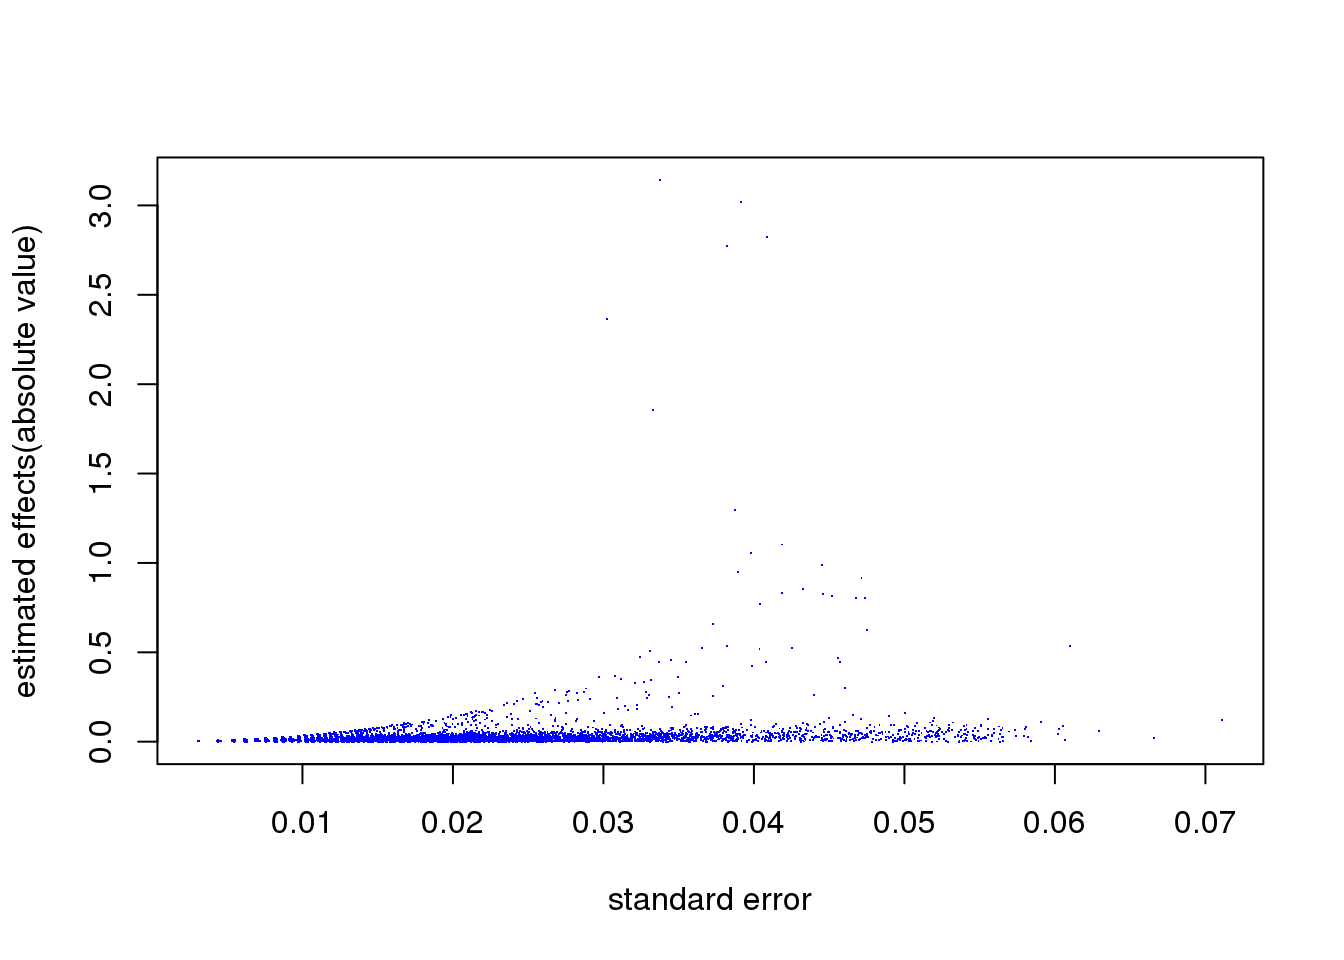
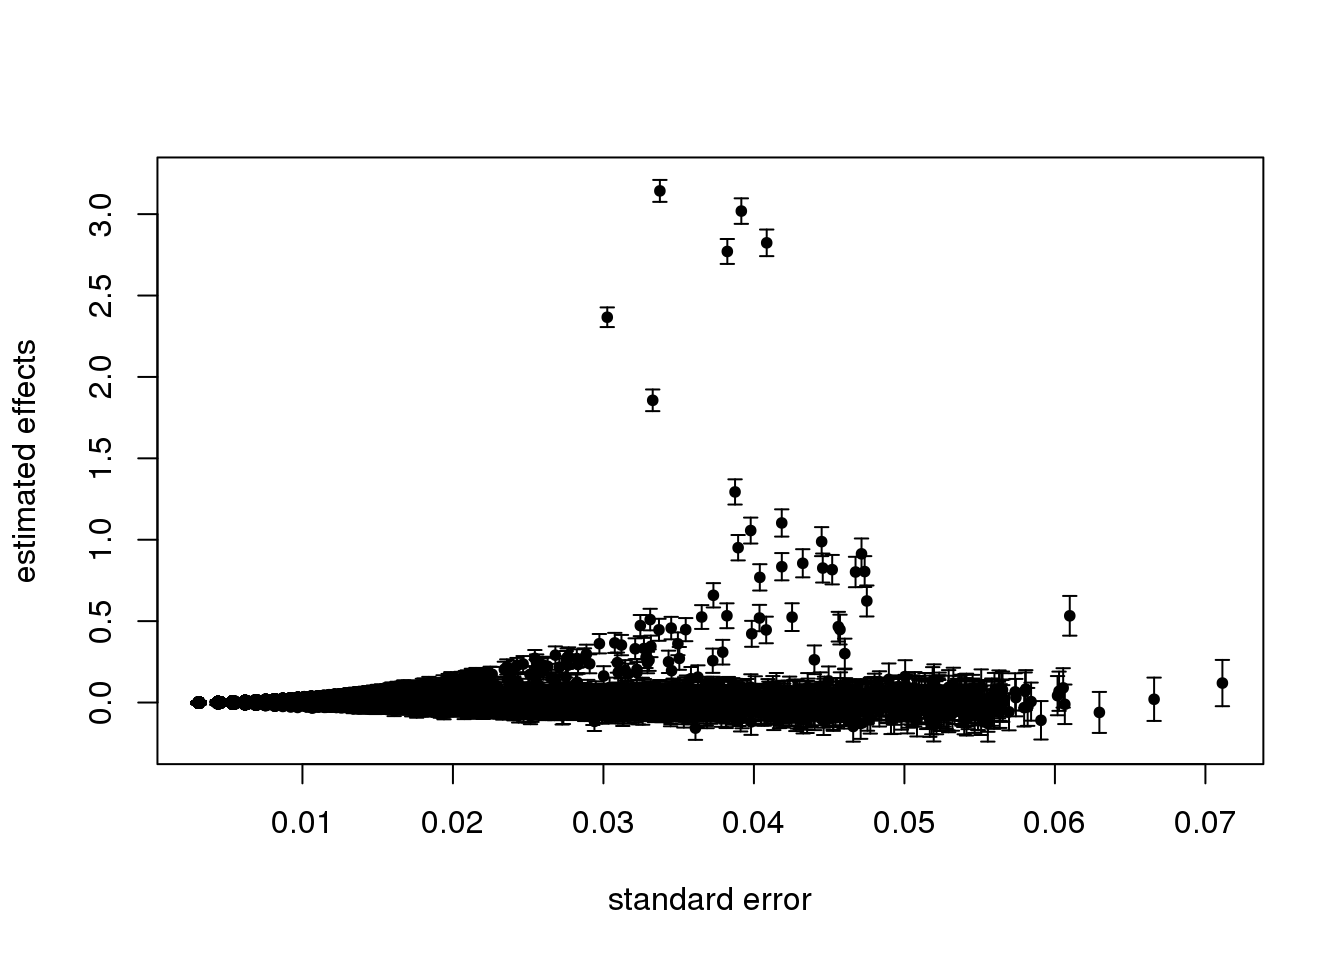
Build site.

diff --git a/docs/scdeMouthwash.html b/docs/scdeMouthwash.html
@@ -361,7 +361,7 @@ div.section {
 <div class="tab-content">
 <div id="summary" class="tab-pane fade in active">
 <p>
-<strong>Last updated:</strong> 2020-03-04
+<strong>Last updated:</strong> 2020-03-05
 </p>
 <p>
 <strong>Checks:</strong> <span class="glyphicon glyphicon-ok text-success" aria-hidden="true"></span> 7 <span class="glyphicon glyphicon-exclamation-sign text-danger" aria-hidden="true"></span> 0
@@ -452,10 +452,10 @@ This reproducible <a href="http://rmarkdown.rstudio.com">R Markdown</a> analysis
 <div class="panel panel-default">
 <div class="panel-heading">
 <p class="panel-title">
-<a data-toggle="collapse" data-parent="#workflowr-checks" href="#strongRepositoryversionstrongahrefhttpsgithubcomDongyueXiemisctreee1b4b0a18ed8a2f0d41b16670287ed12765fb50btargetblanke1b4b0aa"> <span class="glyphicon glyphicon-ok text-success" aria-hidden="true"></span> <strong>Repository version:</strong> <a href="https://github.com/DongyueXie/misc/tree/e1b4b0a18ed8a2f0d41b16670287ed12765fb50b" target="_blank">e1b4b0a</a> </a>
+<a data-toggle="collapse" data-parent="#workflowr-checks" href="#strongRepositoryversionstrongahrefhttpsgithubcomDongyueXiemisctree3244c512952d5db8af572a47ca9068265b12bf7dtargetblank3244c51a"> <span class="glyphicon glyphicon-ok text-success" aria-hidden="true"></span> <strong>Repository version:</strong> <a href="https://github.com/DongyueXie/misc/tree/3244c512952d5db8af572a47ca9068265b12bf7d" target="_blank">3244c51</a> </a>
 </p>
 </div>
[2 lines of base64/hex data omitted]
 <div class="panel-body">
 <p>
 Great! You are using Git for version control. Tracking code development and connecting the code version to the results is critical for reproducibility. The version displayed above was the version of the Git repository at the time these results were generated. <br><br> Note that you need to be careful to ensure that all relevant files for the analysis have been committed to Git prior to generating the results (you can use <code>wflow_publish</code> or <code>wflow_git_commit</code>). workflowr only checks the R Markdown file, but you know if there are other scripts or data files that it depends on. Below is the status of the Git repository when the results were generated:
@@ -471,12 +471,14 @@ Untracked files:
     Untracked:  code/sccytokines.R
     Untracked:  data/bart/
     Untracked:  data/cytokine/DE_controls_output_filter10.RData
+    Untracked:  data/cytokine/DE_controls_output_filter10_addlimma.RData
     Untracked:  data/cytokine/test.RData
     Untracked:  data/cytokine_normalized.RData
     Untracked:  data/mout_high_alpha0.RData
     Untracked:  data/mout_high_alpha1.RData
 
 Unstaged changes:
+    Modified:   analysis/index.Rmd
     Deleted:    data/mout_high.RData
     Modified:   data/sva_sva_high.RData
 
@@ -522,6 +524,40 @@ Message
 Rmd
 </td>
 <td>
+<a href="https://github.com/DongyueXie/misc/blob/3244c512952d5db8af572a47ca9068265b12bf7d/analysis/scdeMouthwash.Rmd" target="_blank">3244c51</a>
+</td>
+<td>
+DongyueXie
+</td>
+<td>
+2020-03-05
+</td>
+<td>
+wflow_publish(“analysis/scdeMouthwash.Rmd”)
+</td>
+</tr>
+<tr>
+<td>
+html
+</td>
+<td>
+<a href="https://rawcdn.githack.com/DongyueXie/misc/08459cb045105aeeae0045d43931d0fcfa738ec2/docs/scdeMouthwash.html" target="_blank">08459cb</a>
+</td>
+<td>
+DongyueXie
+</td>
+<td>
+2020-03-04
+</td>
+<td>
+Build site.
+</td>
+</tr>
+<tr>
+<td>
+Rmd
+</td>
+<td>
 <a href="https://github.com/DongyueXie/misc/blob/e1b4b0a18ed8a2f0d41b16670287ed12765fb50b/analysis/scdeMouthwash.Rmd" target="_blank">e1b4b0a</a>
 </td>
 <td>
@@ -547,6 +583,7 @@ wflow_publish(“analysis/scdeMouthwash.Rmd”)
 <p>Matthew suggested to look at the <span class="math inline">\(\alpha\)</span> value in <code>ash</code>.</p>
 <p>For each gene <span class="math inline">\(j=1,2,...,G\)</span>, <span class="math inline">\(\hat\beta_j\)</span>, estimated effect size and <span class="math inline">\(\hat s_j\)</span>, standard error of the estimator are avaialbe from a statistical procedure like linear modelling. The t-statistics for testing <span class="math inline">\(H_0: \beta_j = 0\)</span> is <span class="math inline">\(\frac{\hat\beta_j}{\hat s_j}\)</span>.</p>
 <p><code>ash</code> prior: <span class="math inline">\(\frac{\beta_j}{\hat{s}_j^\alpha}|\hat s_j \sim g(\cdot)\)</span>, <span class="math inline">\(\alpha\geq 0\)</span>. When <span class="math inline">\(\alpha&gt;0\)</span>, this prior suggets effects with larger s.e. tend to be larger. When <span class="math inline">\(\alpha=1\)</span>, lfsr is monotonic in p-values so ash-lfsr should give the same significant ranking as the one using p-values.</p>
+<p>A <a href="binomialthinning.html">note</a> on why the simulated data shows effects with larger s.e. tend to be larger.</p>
 <pre class="r"><code>library(vicar)
 library(sva)
 library(cate)
@@ -575,9 +612,22 @@ which_null = c(1*(abs(thinout$coef[-remove.idx]) &lt; 10^-6))
 # rank genes by p value and lfsr
 
 # mouthwash alpha = 0
-#mout = mouthwash(Y,X,k=num_sv,cov_of_interest = 2,include_intercept = FALSE,sprop = 0,scale_var = FALSE)
-#save(mout,file = &#39;data/mout_high_alpha0.RData&#39;)
-load(&#39;data/mout_high_alpha0.RData&#39;)
+mout = mouthwash(Y,X,k=num_sv,cov_of_interest = 2,include_intercept = FALSE,sprop = 0,scale_var = TRUE)</code></pre>
+<pre><code>Running mouthwash on 709 x 2 matrix X and 709 x 12427 matrix Y.
+ - Computing independent basis using QR decomposition.
+ - Computation took 4.204 seconds.
+ - Running additional preprocessing steps.
+ - Computation took 0.001 seconds.
+ - Running second step of mouthwash:
+    + Estimating model parameters using EM.
+    + Computation took 149.624 seconds.
+    + Generating adaptive shrinkage (ash) output.
+    + Computation took 2.302 seconds.
+ - Second step took 152.751 seconds.
+ - Estimating additional hidden confounders.
+ - Computation took 2.976 seconds.</code></pre>
+<pre class="r"><code>save(mout,file = &#39;data/mout_high_alpha0.RData&#39;)
+#load(&#39;data/mout_high_alpha0.RData&#39;)
 
 # mouthwash alpha = 1
 #mout1 = mouthwash(Y,X,k=num_sv,cov_of_interest = 2,include_intercept = FALSE,sprop = 1,scale_var = FALSE)
@@ -600,13 +650,53 @@ svaout$pvalues   &lt;- eout$p.value[, 2]
 # sva-limma-ash-alpha 0
 
 sva_limma_ash0 = ashr::ash(svaout$betahat,svaout$sebetahat,alpha=0)
+sva_limma_ash0$loglik</code></pre>
+<pre><code>[1] 35311.31</code></pre>
+<pre class="r"><code># sva-limma-ash-alpha 1
 
-# sva-limma-ash-alpha 1
-
-sva_limma_ash1 = ashr::ash(svaout$betahat,svaout$sebetahat,alpha=1)</code></pre>
-<p>Let’s look at the relationship between <span class="math inline">\(\hat s_j\)</span> and <span class="math inline">\(\hat\beta_j\)</span>, from limma. The plot indeed suggests effects with larger s.e. tend to be larger.</p>
-<pre class="r"><code>plot(svaout$sebetahat,abs(svaout$betahat),col=4,pch=&#39;.&#39;, xlab=&#39;standard error&#39;, ylab=&#39;estimated effects(absolute value)&#39;)</code></pre>
+sva_limma_ash1 = ashr::ash(svaout$betahat,svaout$sebetahat,alpha=1)
+sva_limma_ash1$loglik</code></pre>
+<pre><code>[1] 35524.29</code></pre>
+<pre class="r"><code>library(plotrix)
+plotCI(svaout$sebetahat,(svaout$betahat),ui = svaout$betahat + 2*svaout$sebetahat,li = svaout$betahat - 2*svaout$sebetahat,pch=20,sfrac = 0.005,xlab=&#39;standard error&#39;, ylab=&#39;estimated effects&#39;)</code></pre>
 <p><img src="figure/scdeMouthwash.Rmd/unnamed-chunk-3-1.png" width="672" style="display: block; margin: auto;" /></p>
+<p>
+<button type="button" class="btn btn-default btn-xs btn-workflowr btn-workflowr-fig" data-toggle="collapse" data-target="#fig-unnamed-chunk-3-1">
+Past versions of unnamed-chunk-3-1.png
+</button>
+</p>
+<div id="fig-unnamed-chunk-3-1" class="collapse">
+<div class="table-responsive">
+<table class="table table-condensed table-hover">
+<thead>
+<tr>
+<th>
+Version
+</th>
+<th>
+Author
+</th>
+<th>
+Date
+</th>
+</tr>
+</thead>
+<tbody>
+<tr>
+<td>
+<a href="https://github.com/DongyueXie/misc/blob/08459cb045105aeeae0045d43931d0fcfa738ec2/docs/figure/scdeMouthwash.Rmd/unnamed-chunk-3-1.png" target="_blank">08459cb</a>
+</td>
+<td>
+DongyueXie
+</td>
+<td>
+2020-03-04
+</td>
+</tr>
+</tbody>
+</table>
+</div>
+</div>
 </div>
 <div id="roc" class="section level2">
 <h2>ROC</h2>
@@ -638,6 +728,43 @@ shortdat &lt;- dplyr::filter(longdat, Method == &quot;MOUTHWASH0&quot; | Method 
 ggplot(data = shortdat, mapping = aes(x = FPR, y = TPR, col = Method)) +
   geom_path() + theme_bw() + ggtitle(&quot;ROC Curves&quot;)</code></pre>
 <p><img src="figure/scdeMouthwash.Rmd/unnamed-chunk-4-1.png" width="672" style="display: block; margin: auto;" /></p>
+<p>
+<button type="button" class="btn btn-default btn-xs btn-workflowr btn-workflowr-fig" data-toggle="collapse" data-target="#fig-unnamed-chunk-4-1">
+Past versions of unnamed-chunk-4-1.png
+</button>
+</p>
+<div id="fig-unnamed-chunk-4-1" class="collapse">
+<div class="table-responsive">
+<table class="table table-condensed table-hover">
+<thead>
+<tr>
+<th>
+Version
+</th>
+<th>
+Author
+</th>
+<th>
+Date
+</th>
+</tr>
+</thead>
+<tbody>
+<tr>
+<td>
+<a href="https://github.com/DongyueXie/misc/blob/08459cb045105aeeae0045d43931d0fcfa738ec2/docs/figure/scdeMouthwash.Rmd/unnamed-chunk-4-1.png" target="_blank">08459cb</a>
+</td>
+<td>
+DongyueXie
+</td>
+<td>
+2020-03-04
+</td>
+</tr>
+</tbody>
+</table>
+</div>
+</div>
 <pre class="r"><code>auc_vec &lt;- sapply(roc_out, FUN = function(x) { x$auc })
 knitr::kable(sort(auc_vec, decreasing = TRUE), col.names = &quot;AUC&quot;, digits = 3)</code></pre>
 <table>
@@ -666,7 +793,7 @@ knitr::kable(sort(auc_vec, decreasing = TRUE), col.names = &quot;AUC&quot;, digi
 </tr>
 <tr class="odd">
 <td>MOUTHWASH0</td>
-<td align="right">0.723</td>
+<td align="right">0.710</td>
 </tr>
 </tbody>
 </table>
@@ -753,6 +880,43 @@ knitr::kable(ranks)</code></pre>
 <p>The first 6 are different. How about the rest genes? From the plot below, the ranks are the same.</p>
 <pre class="r"><code>plot(svalimma_rank[-c(1:6)],svalimma_ash1_rank[-c(1:6)],xlab = &#39;gene ranks - sva_limma_p-value&#39;,ylab = &#39;gene ranks - sva_limma_ash1&#39;)</code></pre>
 <p><img src="figure/scdeMouthwash.Rmd/unnamed-chunk-7-1.png" width="672" style="display: block; margin: auto;" /></p>
+<p>
+<button type="button" class="btn btn-default btn-xs btn-workflowr btn-workflowr-fig" data-toggle="collapse" data-target="#fig-unnamed-chunk-7-1">
+Past versions of unnamed-chunk-7-1.png
+</button>
+</p>
+<div id="fig-unnamed-chunk-7-1" class="collapse">
+<div class="table-responsive">
+<table class="table table-condensed table-hover">
+<thead>
+<tr>
+<th>
+Version
+</th>
+<th>
+Author
+</th>
+<th>
+Date
+</th>
+</tr>
+</thead>
+<tbody>
+<tr>
+<td>
+<a href="https://github.com/DongyueXie/misc/blob/08459cb045105aeeae0045d43931d0fcfa738ec2/docs/figure/scdeMouthwash.Rmd/unnamed-chunk-7-1.png" target="_blank">08459cb</a>
+</td>
+<td>
+DongyueXie
+</td>
+<td>
+2020-03-04
+</td>
+</tr>
+</tbody>
+</table>
+</div>
+</div>
 <p>Why the first 6 genes are different? Let’s look at the p-values and lfsr. The first 6 genes have 0 lfsr due to numerical precision limit I guess.</p>
 <pre class="r"><code>svaout$pvalues[svalimma_rank[1:6]]</code></pre>
 <pre><code>[1]  0.000000e+00  0.000000e+00  0.000000e+00  0.000000e+00 2.066745e-316
@@ -786,9 +950,10 @@ attached base packages:
 [1] stats     graphics  grDevices utils     datasets  methods   base     
 
 other attached packages:
-[1] ggplot2_3.1.1       seqgendiff_1.2.1    cate_1.0.4         
-[4] sva_3.30.0          BiocParallel_1.16.0 genefilter_1.64.0  
-[7] mgcv_1.8-25         nlme_3.1-137        vicar_0.1-10       
+ [1] ggplot2_3.1.1       plotrix_3.7-4       seqgendiff_1.2.1   
+ [4] cate_1.0.4          sva_3.30.0          BiocParallel_1.16.0
+ [7] genefilter_1.64.0   mgcv_1.8-25         nlme_3.1-137       
+[10] vicar_0.1-10       
 
 loaded via a namespace (and not attached):
  [1] Biobase_2.42.0       svd_0.4.1            foreach_1.4.4       
